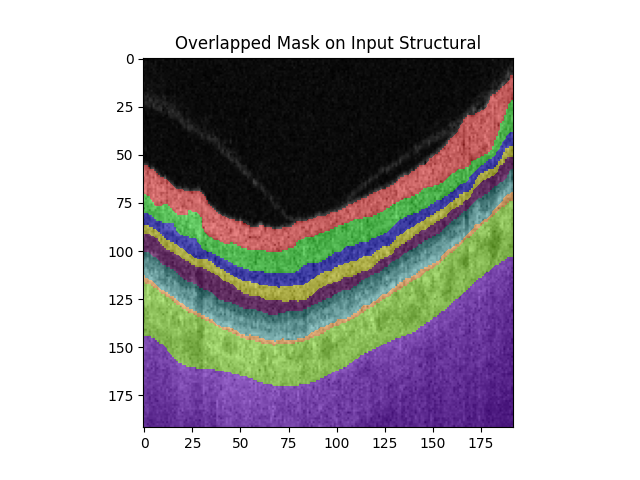
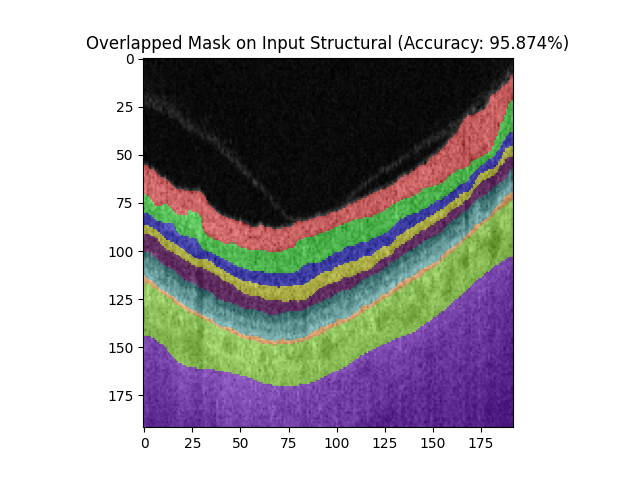
slight changed on accuracy shown

Changed region(s): [[0.125, 0.0625, 0.875, 0.125]]

diff --git a/Dataset/delete_me.py b/Dataset/delete_me.py
@@ -120,6 +120,7 @@ input_str = input_str[:, :, 0]
 cmap = mcolors.ListedColormap(color_maps)
 plt.imshow(input_str, 'gray')
 plt.imshow(test_label_argmax, cmap=cmap, alpha=0.4)
-plt.title('Overlapped Mask on Input Structural')
+plt.title('Overlapped Mask on Input Structural (Accuracy: {:.2f}%)'.format(
+    accuracy_of_label*100))
 plt.savefig('Overlapped Mask on Input Structural.png')
 plt.show()
